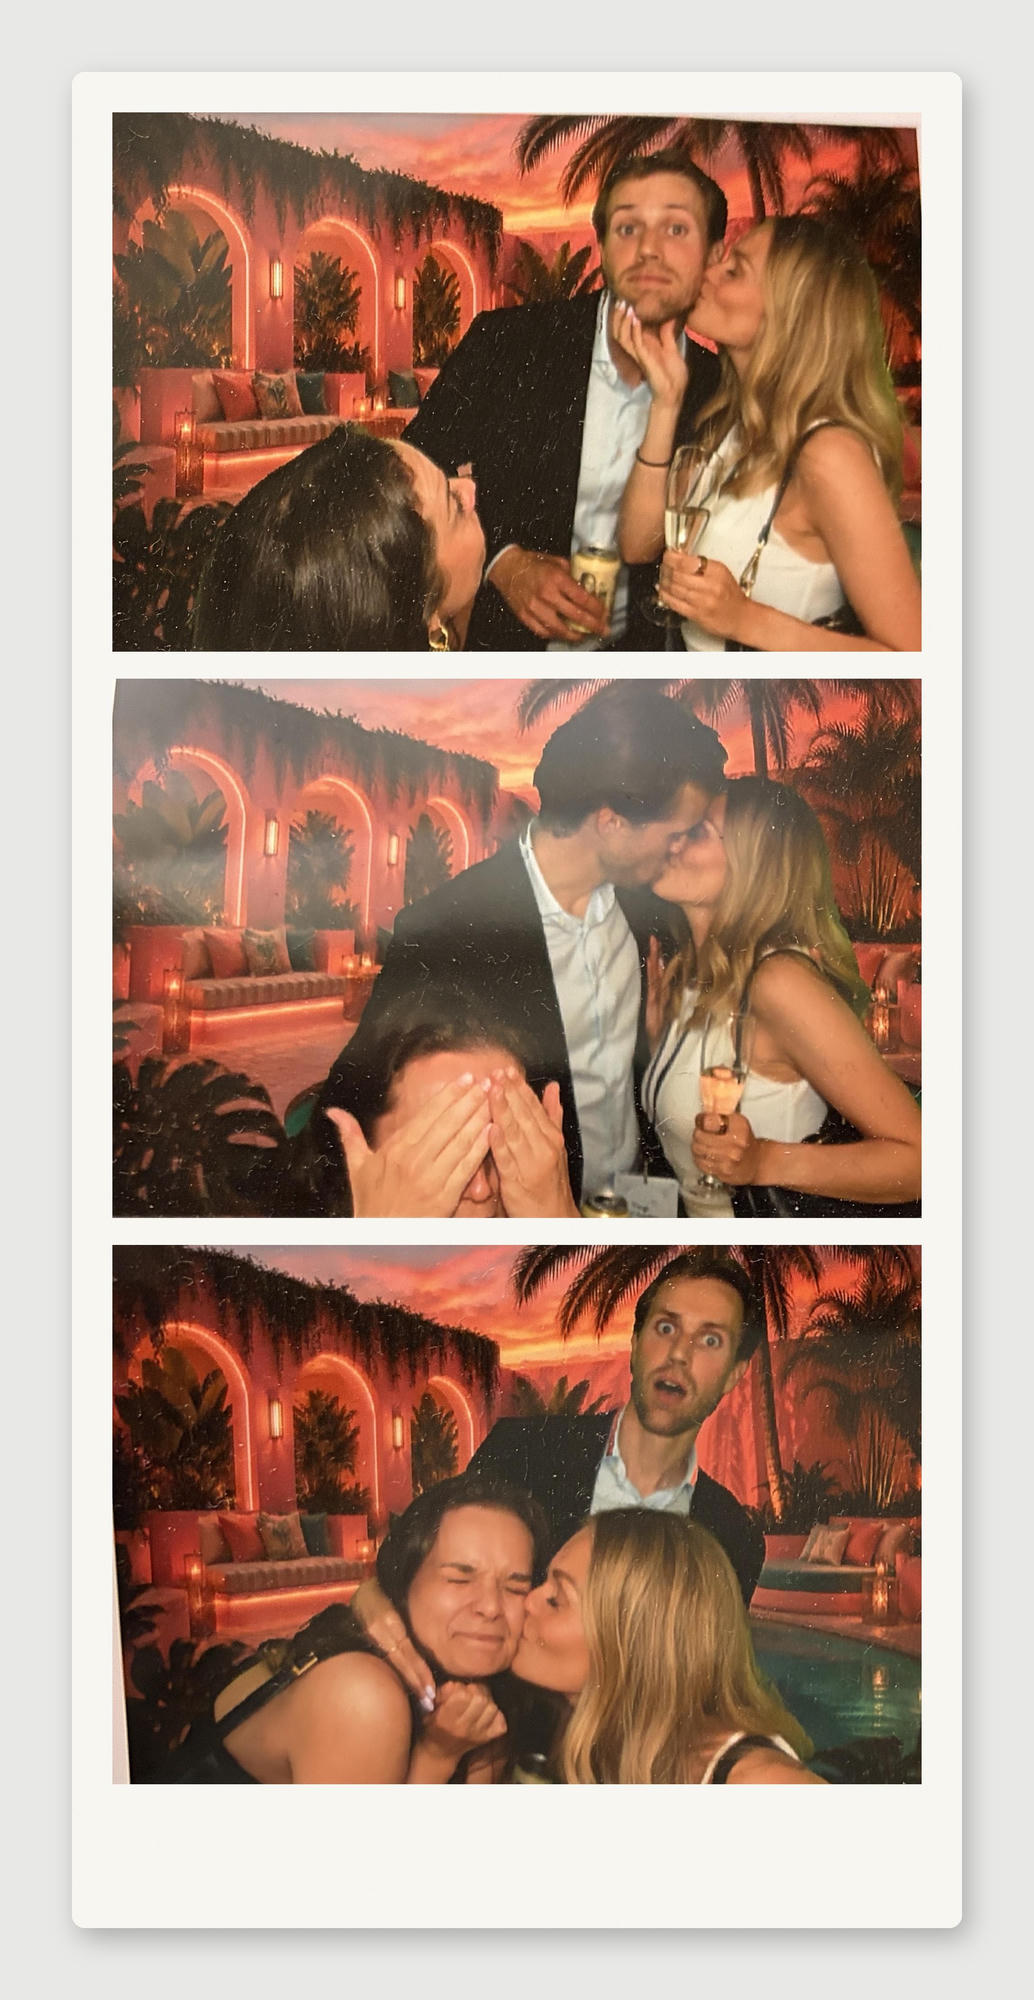
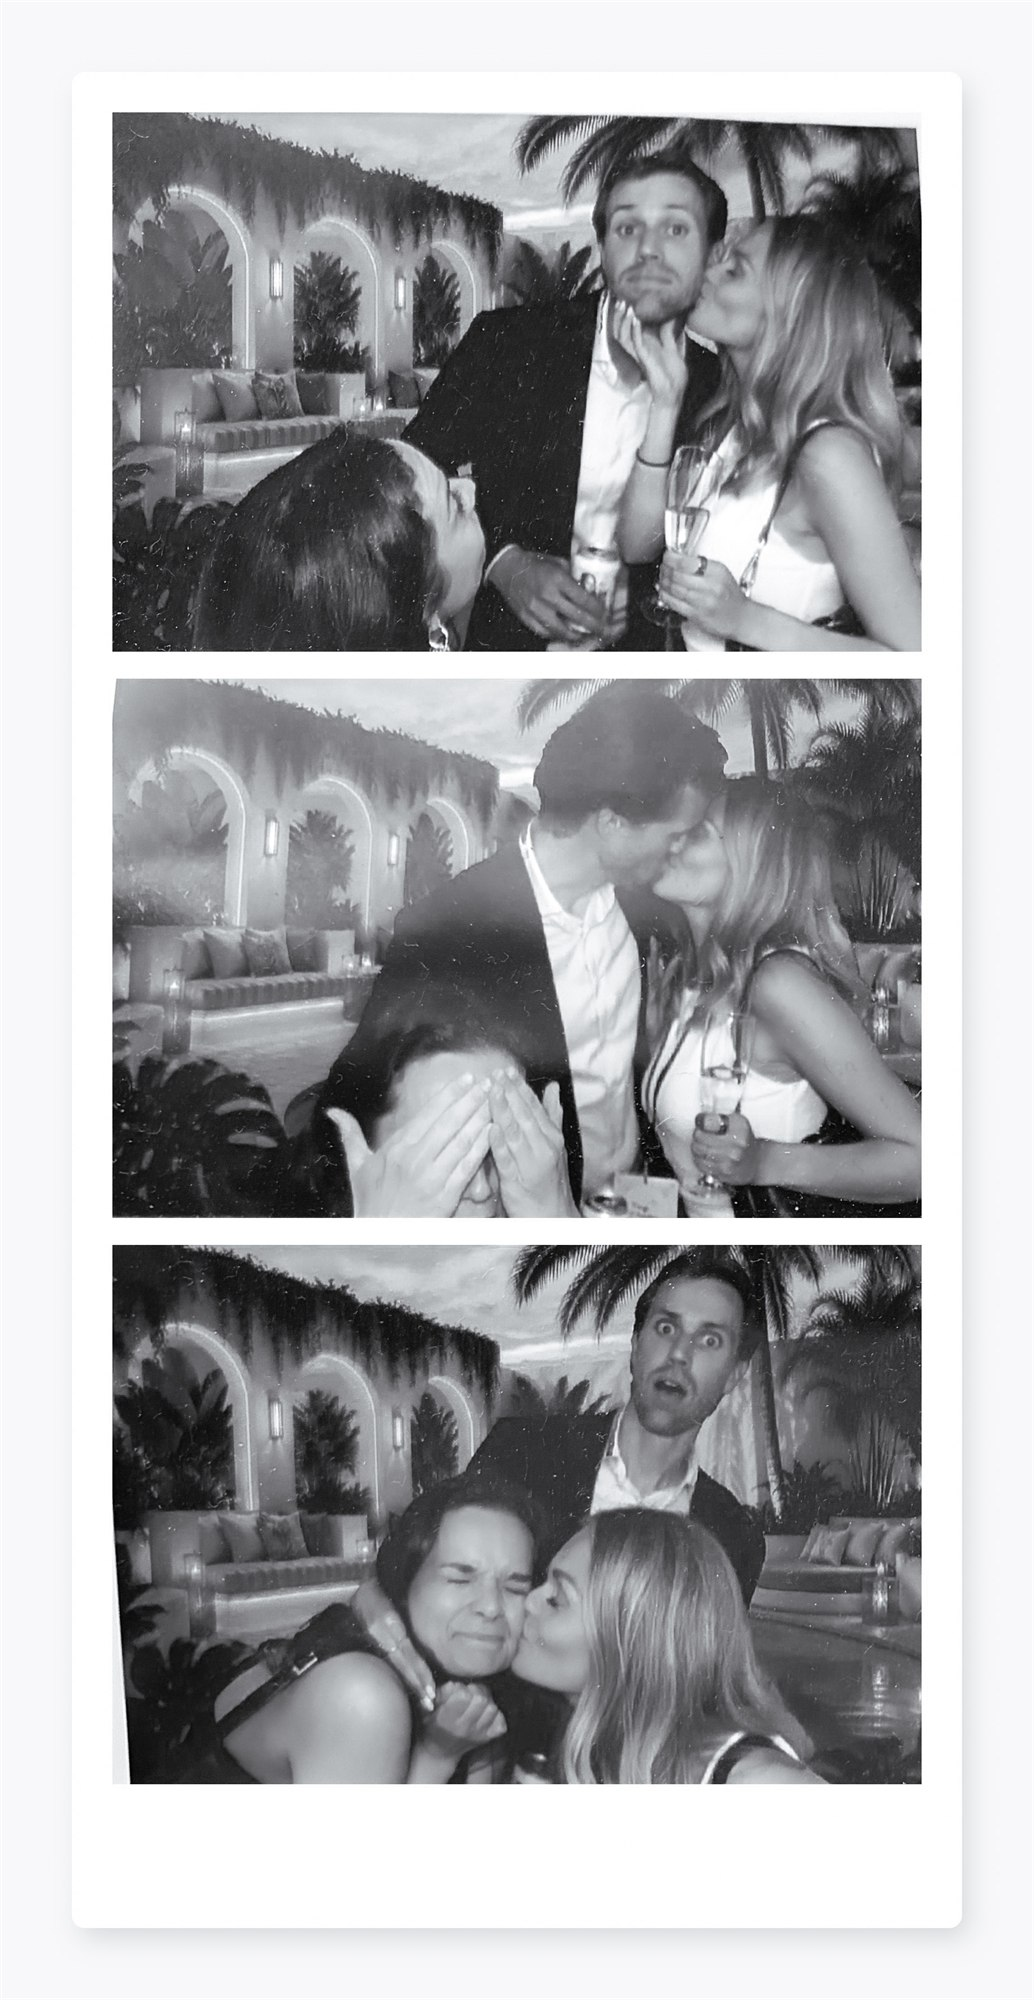
Refresh compact wedding gallery

diff --git a/css/style.css b/css/style.css
@@ -909,16 +909,20 @@ h2 em, h3 em { font-weight: 300; font-style: italic; }
 .gallery-item:nth-child(2) { grid-column: 2; grid-row: 1; }
 .gallery-item:nth-child(3) { grid-column: 1; grid-row: 2; }
 .gallery-item:nth-child(4) { grid-column: 2; grid-row: 2; }
-.gallery-item:nth-child(5) { grid-column: 3; grid-row: 1 / span 2; }
+.gallery-item:nth-child(5) {
+  grid-column: 3;
+  grid-row: 1 / span 2;
+  background: #fff;
+}
 .gallery-item:nth-child(6) { grid-column: 3; grid-row: 3; aspect-ratio: 4 / 3; }
+.gallery-item:nth-child(-n+4) { aspect-ratio: 4 / 3; }
 .gallery-item img {
   display: block;
   width: 100%;
   height: 100%;
   object-fit: cover;
 }
-.gallery-item:nth-child(-n+4) { aspect-ratio: 4 / 3; }
-.gallery-item:nth-child(5) img { object-position: center 42%; }
+.gallery-item:nth-child(5) img { object-fit: contain; }
 
 /* ---------- Usein kysyttyä ---------- */
 
@@ -1081,7 +1085,6 @@ footer button {
 @media (max-width: 1000px) {
   .section { padding: 64px 38px; }
   .gallery-band .section { padding: 64px 38px; }
-
   #home {
     height: 95svh;
     min-height: 570px;
@@ -1241,7 +1244,6 @@ footer button {
 
   .photos {
     grid-template-columns: repeat(2, minmax(0, 1fr));
-    grid-template-rows: auto auto auto;
     gap: 12px;
     width: 100%;
   }
@@ -1250,16 +1252,11 @@ footer button {
   .gallery-item:nth-child(3) { grid-column: 1; grid-row: 2; }
   .gallery-item:nth-child(4) { grid-column: 2; grid-row: 2; }
   .gallery-item:nth-child(5) {
-    grid-column: 1;
+    grid-column: 1 / span 2;
     grid-row: 3;
-    aspect-ratio: 1034 / 2000;
+    aspect-ratio: 3 / 2;
   }
-  .gallery-item:nth-child(6) {
-    grid-column: 2;
-    grid-row: 3;
-    align-self: start;
-    aspect-ratio: 4 / 3;
-  }
+  .gallery-item:nth-child(6) { grid-column: 1 / span 2; grid-row: 4; }
 
   .gift-section p { font-size: 15px; }
 

diff --git a/index.html b/index.html
@@ -217,7 +217,7 @@
           <img alt="Kuvagallerian kuva 4" loading="lazy" src="images/gallery-4.jpg"/>
         </figure>
         <figure class="gallery-item">
-          <img alt="Kuvagallerian kuva 5" loading="lazy" src="images/gallery-5.jpeg"/>
+          <img alt="Mustavalkoisia kuvakoppikuvia juhlavieraista" loading="lazy" src="images/gallery-5.jpeg"/>
         </figure>
       </div></div>
     </section>
